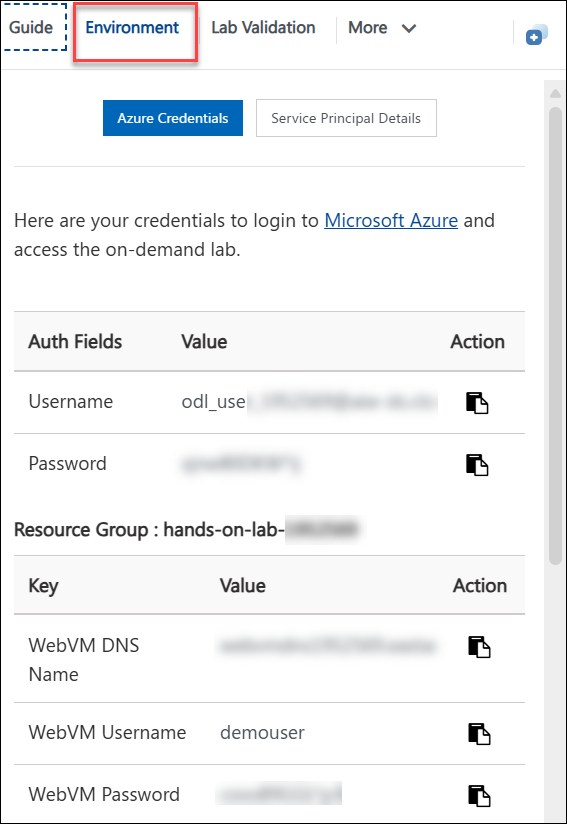
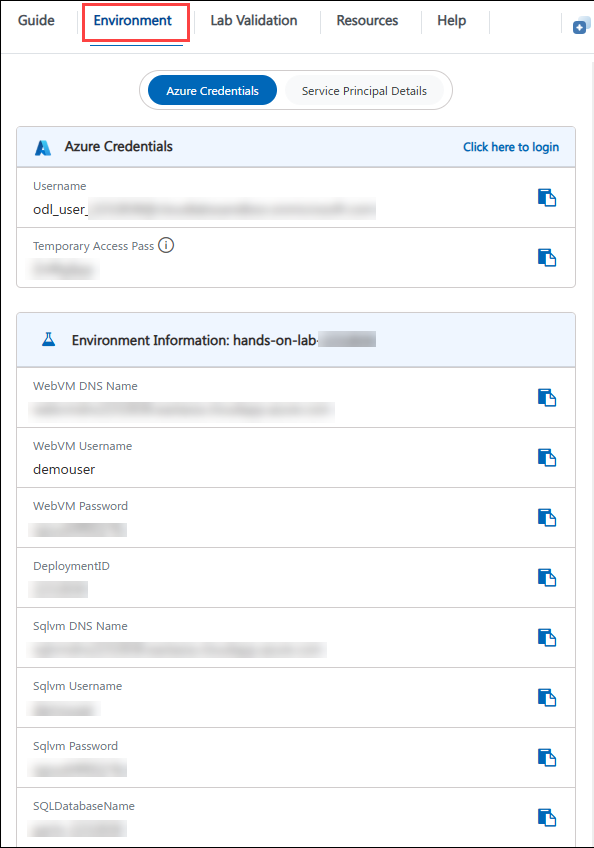
new-ui

diff --git a/Hands-on lab/4.md b/Hands-on lab/4.md
@@ -216,7 +216,7 @@ After reviewing the assessment results and confirming the database is a candidat
 
     ![](media/m34.png)
 
-1. Start typing **sql server management** **(1)** into the search bar, then select **SQL Server Management Studio 18 (2)** in the search results.
+1. Start typing **sql server management** **(1)** into the search bar, then select **SQL Server Management Studio 20 (2)** in the search results.
 
     ![](media/appmod-dma.png)
 
